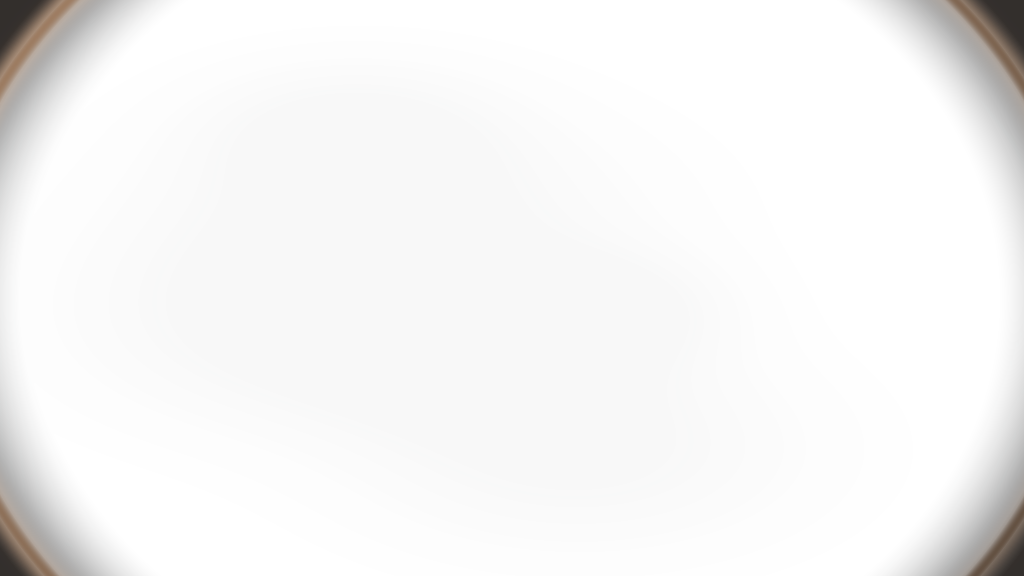
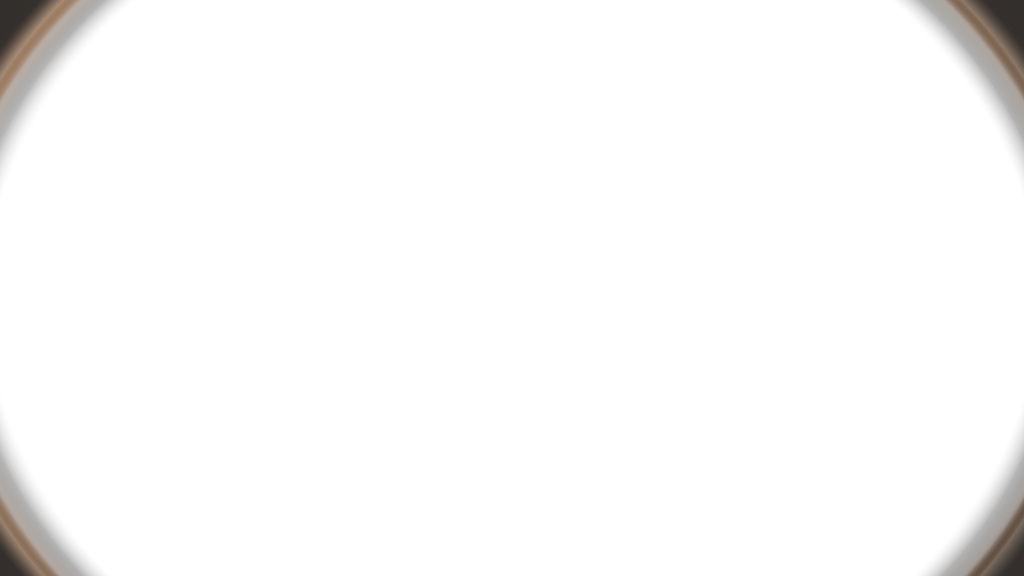
God rays and clearer water: per-scene shadow distance, drifting light streaks in the march, darker night at Atlantis, helmet glass cleared
Claude-Session: https://claude.ai/code/session_01PDNsYzeP4o2VinCsrh5Q6Q

diff --git a/Unity/TwentyThousandLeagues/Assets/Verne/Scripts/Editor/SceneBuilders.cs b/Unity/TwentyThousandLeagues/Assets/Verne/Scripts/Editor/SceneBuilders.cs
@@ -793,15 +793,15 @@ namespace Verne.EditorTools
                     // GUM 3 Nov, with INSIDE's water beside it: luminous grey-cyan water that the things in it go dark against.
                     // Nearly grey extinction (the colour is in the light, not the water), a high scattering albedo so the
                     // water glows, things gone to silhouette within ~15 m
-                    w.surfaceY = 9f; w.extinction = new Color(0.125f, 0.1f, 0.095f); w.scatterAlbedo = new Color(0.86f, 0.9f, 0.92f);
-                    w.kd = new Color(0.11f, 0.075f, 0.068f); w.surfaceAmbient = new Color(0.72f, 0.8f, 0.82f); w.sunShafts = 1.8f; w.heroGain = 0.5f; w.forwardScatter = 0.8f; w.maxDistance = 45f; break;   // round 7: brighter above, darker toward the floor (INSIDE's gradient)
+                    w.surfaceY = 9f; w.extinction = new Color(0.075f, 0.06f, 0.056f);   // GUM 3 Nov pm: "less foggy": twice the reach w.scatterAlbedo = new Color(0.86f, 0.9f, 0.92f);
+                    w.kd = new Color(0.11f, 0.075f, 0.068f); w.surfaceAmbient = new Color(0.4f, 0.46f, 0.48f); w.sunShafts = 7f; w.shaftScale = 0.12f; w.shaftBreakup = 0.75f; w.heroGain = 0.5f; w.forwardScatter = 0.82f; w.maxDistance = 60f; w.shadowDistance = 70f; break;   // god rays through the kelp   // round 7: brighter above, darker toward the floor (INSIDE's gradient)
                 case "Mission2":    // 150 fathoms at midnight: no daylight; the volcano's red glow is the only light (art-directed so red carries)
                     // GUM 3 Nov: the browser build: a dark umber water that the volcano's glow warms as you near it; the
                     // fire is amber, the rock is seen; things fall to silhouette against the glow
-                    w.surfaceY = 274f; w.extinction = new Color(0.034f, 0.036f, 0.04f); w.scatterAlbedo = new Color(0.82f, 0.8f, 0.78f);
-                    w.kd = new Color(0.002f, 0.002f, 0.002f); w.surfaceAmbient = Color.black; w.sunShafts = 0.7f; w.maxDistance = 80f; w.heroGain = 18f; w.forwardScatter = 0.7f;   // the "sun" here is the volcano's glow, not daylight: no depth fade
-                    w.ambientFloor = new Color(0.03f, 0.026f, 0.024f);
-                    w.glowColor = new Color(0.55f, 0.32f, 0.17f); w.glowPosition = AtlantisKit.CraterGlow; w.glowRange = 90f; break;
+                    w.surfaceY = 274f; w.extinction = new Color(0.018f, 0.019f, 0.021f);   // GUM 3 Nov pm: less fog w.scatterAlbedo = new Color(0.82f, 0.8f, 0.78f);
+                    w.kd = new Color(0.002f, 0.002f, 0.002f); w.surfaceAmbient = Color.black; w.sunShafts = 9f; w.shaftScale = 0.07f; w.shaftBreakup = 0.85f; w.maxDistance = 110f; w.heroGain = 20f; w.forwardScatter = 0.8f; w.shadowDistance = 170f;   // the volcano's light as rays: the mountain's shadow carves them   // the "sun" here is the volcano's glow, not daylight: no depth fade
+                    w.ambientFloor = new Color(0.016f, 0.013f, 0.012f);   // a dark night: the rays and the glow stand out of it
+                    w.glowColor = new Color(0.14f, 0.07f, 0.03f); w.glowPosition = AtlantisKit.CraterGlow; w.glowRange = 90f; break;
             }
             foreach (var l in hero) if (l != null) w.heroLights.Add(l);
             if (w.sunShafts > 0f)
@@ -1275,7 +1275,7 @@ namespace Verne.EditorTools
         {
             var s = NewScene("Mission2");
             // midnight at 150 fathoms; the only light is the volcano's red glow, two miles off
-            Ambient(new Color(0.17f, 0.132f, 0.105f), new Color(0.11f, 0.087f, 0.07f), new Color(0.04f, 0.032f, 0.026f));   // GUM 3 Nov: the browser's umber night, where you can see the rock   // tour 5: only the volcano lights this night: the faint fill is its ember, not a blue-grey haze
+            Ambient(new Color(0.11f, 0.085f, 0.067f), new Color(0.072f, 0.055f, 0.044f), new Color(0.026f, 0.02f, 0.016f));   // night: the rock is seen, barely   // GUM 3 Nov: the browser's umber night, where you can see the rock   // tour 5: only the volcano lights this night: the faint fill is its ember, not a blue-grey haze
             Fog(true, new Color(0.012f, 0.014f, 0.02f), 0.012f);   // fallback only; thin enough that the glow and the city still show from the summit
             var root = new GameObject("Atlantis approach").transform;
             // (M5, started in Part 3) the stony plain → the climb through the petrified copse → the crevice → the first platform →
@@ -1292,7 +1292,8 @@ namespace Verne.EditorTools
             l.shadows = LightShadows.None;
             // the browser's second volcano light: from the crater back over the ridge toward the plain, so the mountain casts
             // its shadow down the way and the water shows rays where the glow passes the crags (the march's main light)
-            var over = Sun("The volcano's glow over the ridge", new Vector3(34f, 192.7f, 0f), new Color(1f, 0.62f, 0.4f), 0.85f);   // round 8: steep enough to reach the ground under your feet
+            var over = Sun("The volcano's glow over the ridge", new Vector3(16f, 192.7f, 0f), new Color(1f, 0.6f, 0.36f), 0.2f);   // GUM: "looks like broad daylight": low over the ridge, faint on the rock, strong in the water
+            over.shadowStrength = 1f;   // round 8: steep enough to reach the ground under your feet
             over.transform.SetParent(root, true);
             NautilusAtTheDoor(root, SceneFlow.Nautilus);
             var sp = new Vector3(0, 0, 0);

diff --git a/Unity/TwentyThousandLeagues/Assets/Verne/Scripts/Runtime/Rendering/VerneWater.cs b/Unity/TwentyThousandLeagues/Assets/Verne/Scripts/Runtime/Rendering/VerneWater.cs
@@ -36,6 +36,15 @@ namespace Verne
         public Vector3 glowPosition;
         public float glowRange = 120f;
 
+        [Tooltip("How far the main light's shadows reach in this scene (0 = the quality tier's own). God rays are the shadows of things\n" +
+                 "in the water: past this distance nothing blocks the light and it falls evenly, like daylight.")]
+        public float shadowDistance = 0f;
+
+        [Tooltip("God rays: the main light's beams broken into streaks by a slowly drifting pattern in the light's own plane (the browser\n" +
+                 "build's uwShaft, INSIDE's light cookies). Scale = streaks per metre; breakup 0 = even light, 1 = only the streaks.")]
+        public float shaftScale = 0.1f;
+        [Range(0f, 1f)] public float shaftBreakup = 0f;
+
         [Header("March")]
         public float maxDistance = 45f;
         [Tooltip("The beams to march through: Ruhmkorff lamps, the volcano. Up to four.")]
@@ -49,9 +58,12 @@ namespace Verne
         static readonly int ID_Sigma = Shader.PropertyToID("_VerneSigma"), ID_Water = Shader.PropertyToID("_VerneWater"),
             ID_Ambient = Shader.PropertyToID("_VerneAmbient"), ID_SunRaw = Shader.PropertyToID("_VerneSunRaw");
 
+        float m_OldShadowDist = -1f;
         void OnEnable()
         {
             Active = this; m_SceneFog = RenderSettings.fog; PushGlobals();
+            if (Application.isPlaying && shadowDistance > 0f && UnityEngine.Rendering.GraphicsSettings.currentRenderPipeline is UnityEngine.Rendering.Universal.UniversalRenderPipelineAsset urp)
+            { m_OldShadowDist = urp.shadowDistance; urp.shadowDistance = shadowDistance; }
             if (Application.isPlaying)
             {
                 m_Sun = RenderSettings.sun; if (m_Sun != null) m_SunBase = m_Sun.color;
@@ -62,6 +74,8 @@ namespace Verne
         void OnDisable()
         {
             if (Active == this) Active = null;
+            if (m_OldShadowDist >= 0f && UnityEngine.Rendering.GraphicsSettings.currentRenderPipeline is UnityEngine.Rendering.Universal.UniversalRenderPipelineAsset urp)
+            { urp.shadowDistance = m_OldShadowDist; m_OldShadowDist = -1f; }
             if (Application.isPlaying)
             {
                 RenderSettings.fog = m_SceneFog;

diff --git a/Unity/TwentyThousandLeagues/Assets/Verne/Scripts/Editor/ProjectSetup.cs b/Unity/TwentyThousandLeagues/Assets/Verne/Scripts/Editor/ProjectSetup.cs
@@ -271,7 +271,7 @@ namespace Verne.EditorTools
             Grade("Mission1", exposure: -0.15f, contrast: 16f, saturation: -26f, bloom: 0.9f, vignette: 0.32f, tint: new Color(0.95f, 1.0f, 1.01f),
                   splitShadows: new Color(0.30f, 0.38f, 0.40f), splitHighlights: new Color(0.55f, 0.57f, 0.56f), bloomThreshold: 0.75f, bloomScatter: 0.85f, grain: 0.22f);
             // the browser's Atlantis: sepia umber, the glow amber, nothing saturated
-            Grade("Mission2", exposure: 0.35f, contrast: 10f, saturation: -38f, bloom: 1.0f, vignette: 0.36f, tint: new Color(1.02f, 0.98f, 0.93f),
+            Grade("Mission2", exposure: 0.6f, contrast: 18f, saturation: -38f, bloom: 1.0f, vignette: 0.36f, tint: new Color(1.02f, 0.98f, 0.93f),
                   splitShadows: new Color(0.30f, 0.27f, 0.24f), splitHighlights: new Color(0.62f, 0.52f, 0.42f), bloomThreshold: 0.7f, bloomScatter: 0.85f, grain: 0.25f);
         }
 

diff --git a/Unity/TwentyThousandLeagues/Assets/Verne/Scripts/Runtime/Rendering/VerneUnderwaterFeature.cs b/Unity/TwentyThousandLeagues/Assets/Verne/Scripts/Runtime/Rendering/VerneUnderwaterFeature.cs
@@ -114,6 +114,7 @@ namespace Verne
                 m_Mat.SetColor("_VerneAmbientFloor", wtr.ambientFloor);
                 m_Mat.SetVector("_VerneGlowPos", new Vector4(wtr.glowPosition.x, wtr.glowPosition.y, wtr.glowPosition.z, Mathf.Max(1f, wtr.glowRange)));
                 m_Mat.SetColor("_VerneGlowCol", wtr.glowColor);
+                m_Mat.SetVector("_VerneShaft", new Vector4(wtr.shaftScale, wtr.shaftBreakup, Time.time, 0f));
                 m_Mat.SetVector(ID_LowSize, new Vector4(w, h, 1f / w, 1f / h));
                 int n = 0;
                 foreach (var l in wtr.heroLights)

diff --git a/Source/tools/helmet_port.py b/Source/tools/helmet_port.py
@@ -29,7 +29,8 @@ for _ in range(6):
     sm += np.exp(-(((x - px) / (s * 2.2)) ** 2 + ((y - py) / s) ** 2))
 sm = np.clip(sm, 0, 1) * (r < 1)
 col += sm[..., None] * np.array([0.5, 0.55, 0.55]) * 0.25
-a = np.maximum(a, sm * 0.05)
+# GUM 3 Nov: the smear read as a grey cloud over every night frame: the glass stays clear
+# a = np.maximum(a, sm * 0.05)
 img = np.dstack([np.clip(col, 0, 1) ** (1 / 2.2), a])
 Image.fromarray((img * 255).astype(np.uint8), 'RGBA').save(f'{out}/helmet_port.png')
 # breath fog: a soft bloom on the lower glass, mottled

diff --git a/Unity/TwentyThousandLeagues/Assets/Verne/Scripts/Editor/VerneBootstrap.cs b/Unity/TwentyThousandLeagues/Assets/Verne/Scripts/Editor/VerneBootstrap.cs
@@ -20,7 +20,7 @@ namespace Verne.EditorTools
         public const string Generated = "Assets/Verne/Generated";
         const string DoneMarker = "ProjectSettings/VerneBootstrap.done";
         const string ReportPath = "Logs/verne_setup_report.txt";
-        public const int Version = 21;   // bump to re-run the first-open build after an update
+        public const int Version = 24;   // bump to re-run the first-open build after an update
 
         static StringBuilder s_Report;
         static int s_Ok, s_Fail;

diff --git a/Unity/TwentyThousandLeagues/Assets/Verne/Scripts/Runtime/Rendering/MarineSnow.cs b/Unity/TwentyThousandLeagues/Assets/Verne/Scripts/Runtime/Rendering/MarineSnow.cs
@@ -49,6 +49,7 @@ namespace Verne
         void LateUpdate()
         {
             if (m_PS == null) return;
+            if (m_P == null || m_P.Length < m_PS.main.maxParticles) m_P = new ParticleSystem.Particle[m_PS.main.maxParticles];   // survives a script reload in play
             int n = m_PS.GetParticles(m_P);
             var c = Eye();
             var w = VerneWater.Active;

diff --git a/PROGRESS.md b/PROGRESS.md
@@ -251,3 +251,12 @@ Each run appends to the log at the bottom and keeps this checklist honest.
 - **New: walk test** in Verne → Capture Tour: the player walks the guide's route on the movement input and logs where it sticks (Logs/tour/<scene>_walk.txt).
 - **Verified in Unity on her laptop**: Mission II WALK OK, whole way including the trunk and the summit; Mission I one brief hang on a slope near z 33 (recovers). Frames: Source/previews/tour/round8_mission1.jpg, round9_mission2.jpg.
 - **Next**: Mission I flora colour under the lamp; that z 33 step; the summit view framing (the slab stands in front of the city).
+
+### 2026-11-03 afternoon · GUM: "less foggy, volumetric god rays; the volcano looks like broad daylight"
+- Cause: the main light's shadows reached only 25–50 m (quality tier), so beyond them nothing blocked the light and it fell evenly; the water's isotropic glow drowned the rest.
+- VerneWater.shadowDistance (per scene, at play: Mission I 70 m, Mission II 170 m) so the mountain and the kelp carve the light.
+- God rays: the march now breaks the main light into drifting streaks fixed in the light's plane (ShaftMask: the browser build's uwShaft / INSIDE's cookies); shaftScale, shaftBreakup per scene.
+- Mission I: extinction ~halved, sky in-scatter lowered, shafts 7. Mission II: a dark night (ambientFloor 0.016, glow 0.14), shafts 9 from the volcano over the ridge, the directional on the rock down to 0.2, exposure 0.6.
+- The grey cloud in night frames was the helmet glass's painted smear (5% alpha): cleared (Source/tools/helmet_port.py too).
+- MarineSnow survives a script reload in play.
+- Verified on her laptop: frames round11 (Mission I) and round12 (Mission II); walk tests OK.
